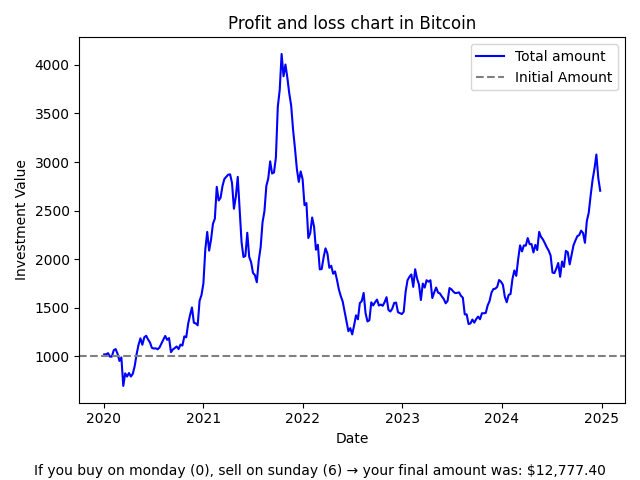
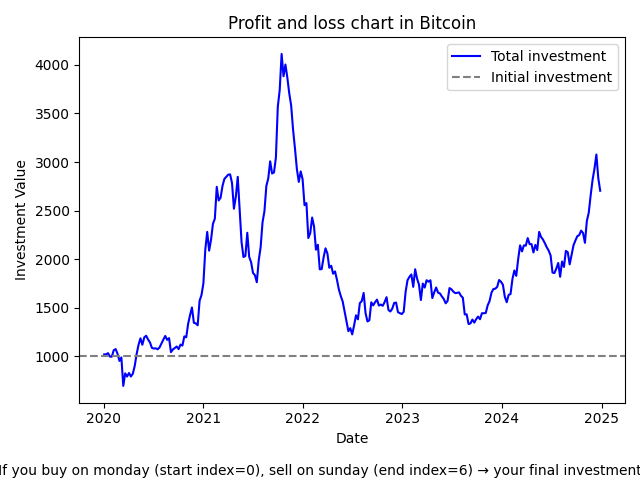
Add more description

Changed region(s): [[0.0, 0.9688, 1.0, 1.0], [0.6875, 0.0938, 0.9688, 0.1875]]

diff --git a/visualize/trading_chart.py b/visualize/trading_chart.py
@@ -15,10 +15,10 @@ def draw_chart():
     buy_day = find_name_of_day(number_buy_day)
     sell_day = find_name_of_day(number_sell_day)
 
-    plt.plot(df["date"], df["amount"], label="Total amount", color="blue")
-    plt.axhline(1000, color='gray', linestyle='--', label="Initial Amount")
+    plt.plot(df["date"], df["amount"], label="Total investment", color="blue")
+    plt.axhline(1000, color='gray', linestyle='--', label="Initial investment")
 
-    text = f"If you buy on {buy_day} ({number_buy_day}), sell on {sell_day} ({number_sell_day}) → your final amount was: ${best_amount:,.2f}"
+    text = f"Maximum profit: If you buy on {buy_day} (start index={number_buy_day}), sell on {sell_day} (end index={number_sell_day}) → your final investment was: ${best_amount:,.2f}"
     plt.figtext(0.5, 0.01, text, ha="center")
 
     plt.xlabel("Date")
